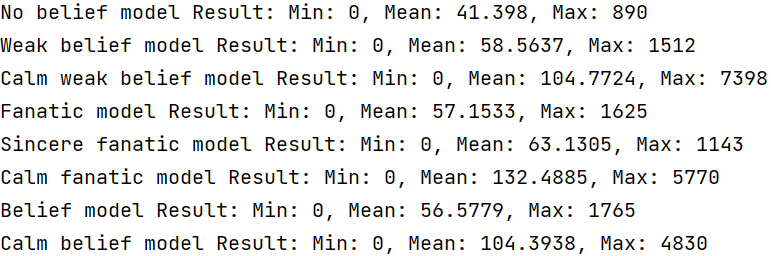
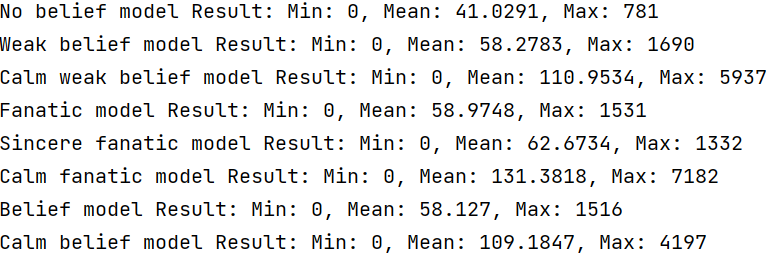
BugFix

diff --git a/fair_or_cheat_models.py b/fair_or_cheat_models.py
@@ -55,10 +55,10 @@ class AbstractModel:
         CHEAT if the model would conclude the coin as biased
         TEST if the model would keep testing
         """
-        if self.end_condition(n_flips, n_heads):
+        if n_flips >= R_if_correct - 1:
             return labels[n_flips][n_heads]
 
-        if n_flips >= R_if_correct - 1:
+        if self.end_condition(n_flips, n_heads):
             return labels[n_flips][n_heads]
 
         return "TEST"
@@ -257,7 +257,7 @@ class BeliefModel(AbstractModel):
                (1 - next_head_prob) * expected_rewards[n_flips + 1][n_heads]
 
     def end_condition(self, n_flips: int, n_heads: int) -> bool:
-        return expected_rewards[n_flips][n_heads] > WeakBeliefModel.expect_next_reward(n_flips, n_heads)
+        return expected_rewards[n_flips][n_heads] > BeliefModel.expect_next_reward(n_flips, n_heads)
 
 
 class CalmBeliefModel(FanaticModel):
